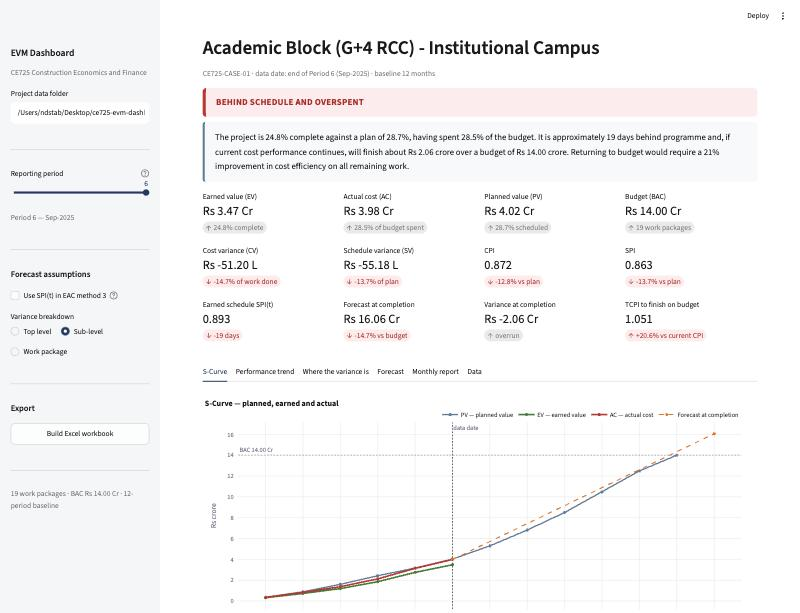
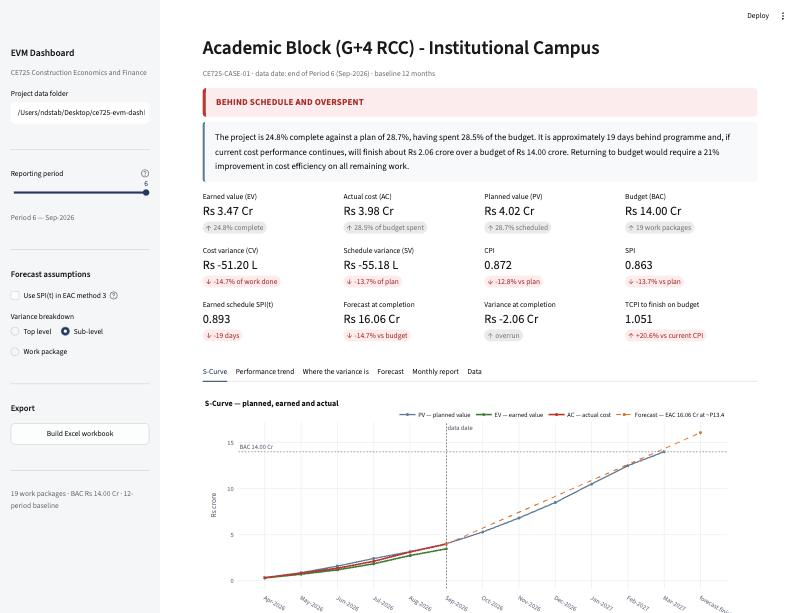
Shift case study to the 2026-27 financial year
The baseline ran Apr-2025 to Mar-2026 with a data date of Sep-2025,
which put the project's "current" reporting position a year in the past
at submission. Now Apr-2026 to Mar-2027 with a data date of Sep-2026, so
the case reads as a live project one month behind the reporting date.

Numerically identical - only the period labels changed. Benchmark
rebuilt and revalidated: 50 of 50 comparisons still agree. Dashboard
screenshots retaken.

diff --git a/data/generate_case_study.py b/data/generate_case_study.py
@@ -47,10 +47,14 @@ PROJECT = {
     "baseline_periods": 12,
     "period_unit": "month",
     "data_date_period": 6,
+    # The baseline runs across one Indian financial year, April to March,
+    # which is how a project of this kind is budgeted and reported. The
+    # data date falls at the end of September, so the monsoon months are
+    # inside the reported window and the finishing trades are not.
     "period_labels": [
-        "Apr-2025", "May-2025", "Jun-2025", "Jul-2025",
-        "Aug-2025", "Sep-2025", "Oct-2025", "Nov-2025",
-        "Dec-2025", "Jan-2026", "Feb-2026", "Mar-2026",
+        "Apr-2026", "May-2026", "Jun-2026", "Jul-2026",
+        "Aug-2026", "Sep-2026", "Oct-2026", "Nov-2026",
+        "Dec-2026", "Jan-2027", "Feb-2027", "Mar-2027",
     ],
     "notes": (
         "Synthetic case study. All budgets, progress percentages and actual "

diff --git a/tests/test_commentary.py b/tests/test_commentary.py
@@ -66,7 +66,7 @@ class TestMonthlyCommentary:
         project, m, es = context
         c = evm.monthly_commentary(project, 6, m, es)
         assert len(c.paragraphs) == 4
-        assert c.period_label == "Sep-2025"
+        assert c.period_label == "Sep-2026"
 
     def test_every_figure_quoted_is_a_computed_figure(self, context):
         """The anti-hallucination property, asserted rather than assumed.

diff --git a/docs/03-user-manual.md b/docs/03-user-manual.md
@@ -99,7 +99,7 @@ forcing you to convert.
   "baseline_periods": 12,
   "period_unit": "month",
   "data_date_period": 6,
-  "period_labels": ["Apr-2025", "May-2025", "..."],
+  "period_labels": ["Apr-2026", "May-2026", "..."],
   "bac_inr": 140000000
 }
 ```
